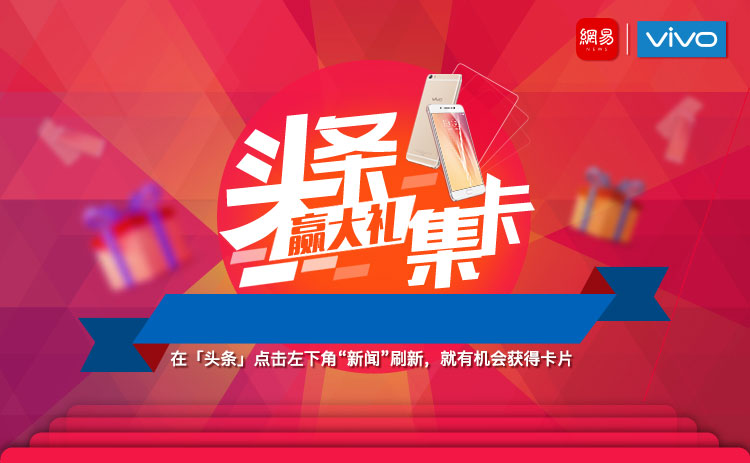
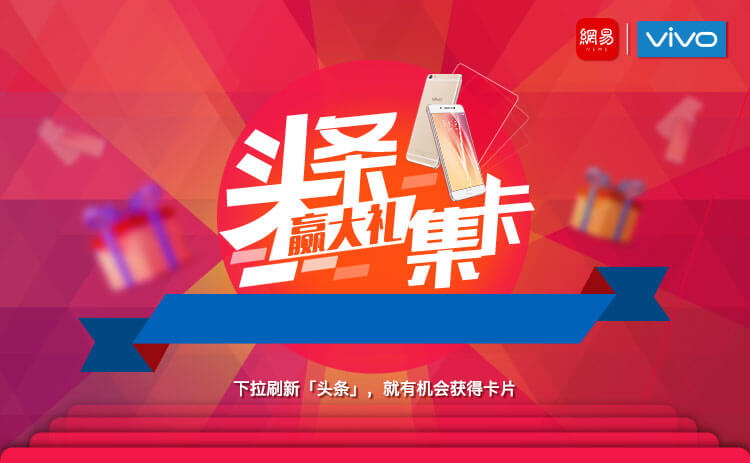
修复zindex的带来的元素在浮层上的问题 更换头图

diff --git a/src/js/components/PastWinning.jsx b/src/js/components/PastWinning.jsx
@@ -23,8 +23,7 @@ export default class PastWinning extends Component {
             }
             const headBg = {
               background: `url(${record.lotteryInfo.head}) no-repeat center`,
-              backgroundSize: '100% 100%',
-              zIndex: 10
+              backgroundSize: '100% 100%'
             }
             return (
               <li className="pari-li" key={index}>
